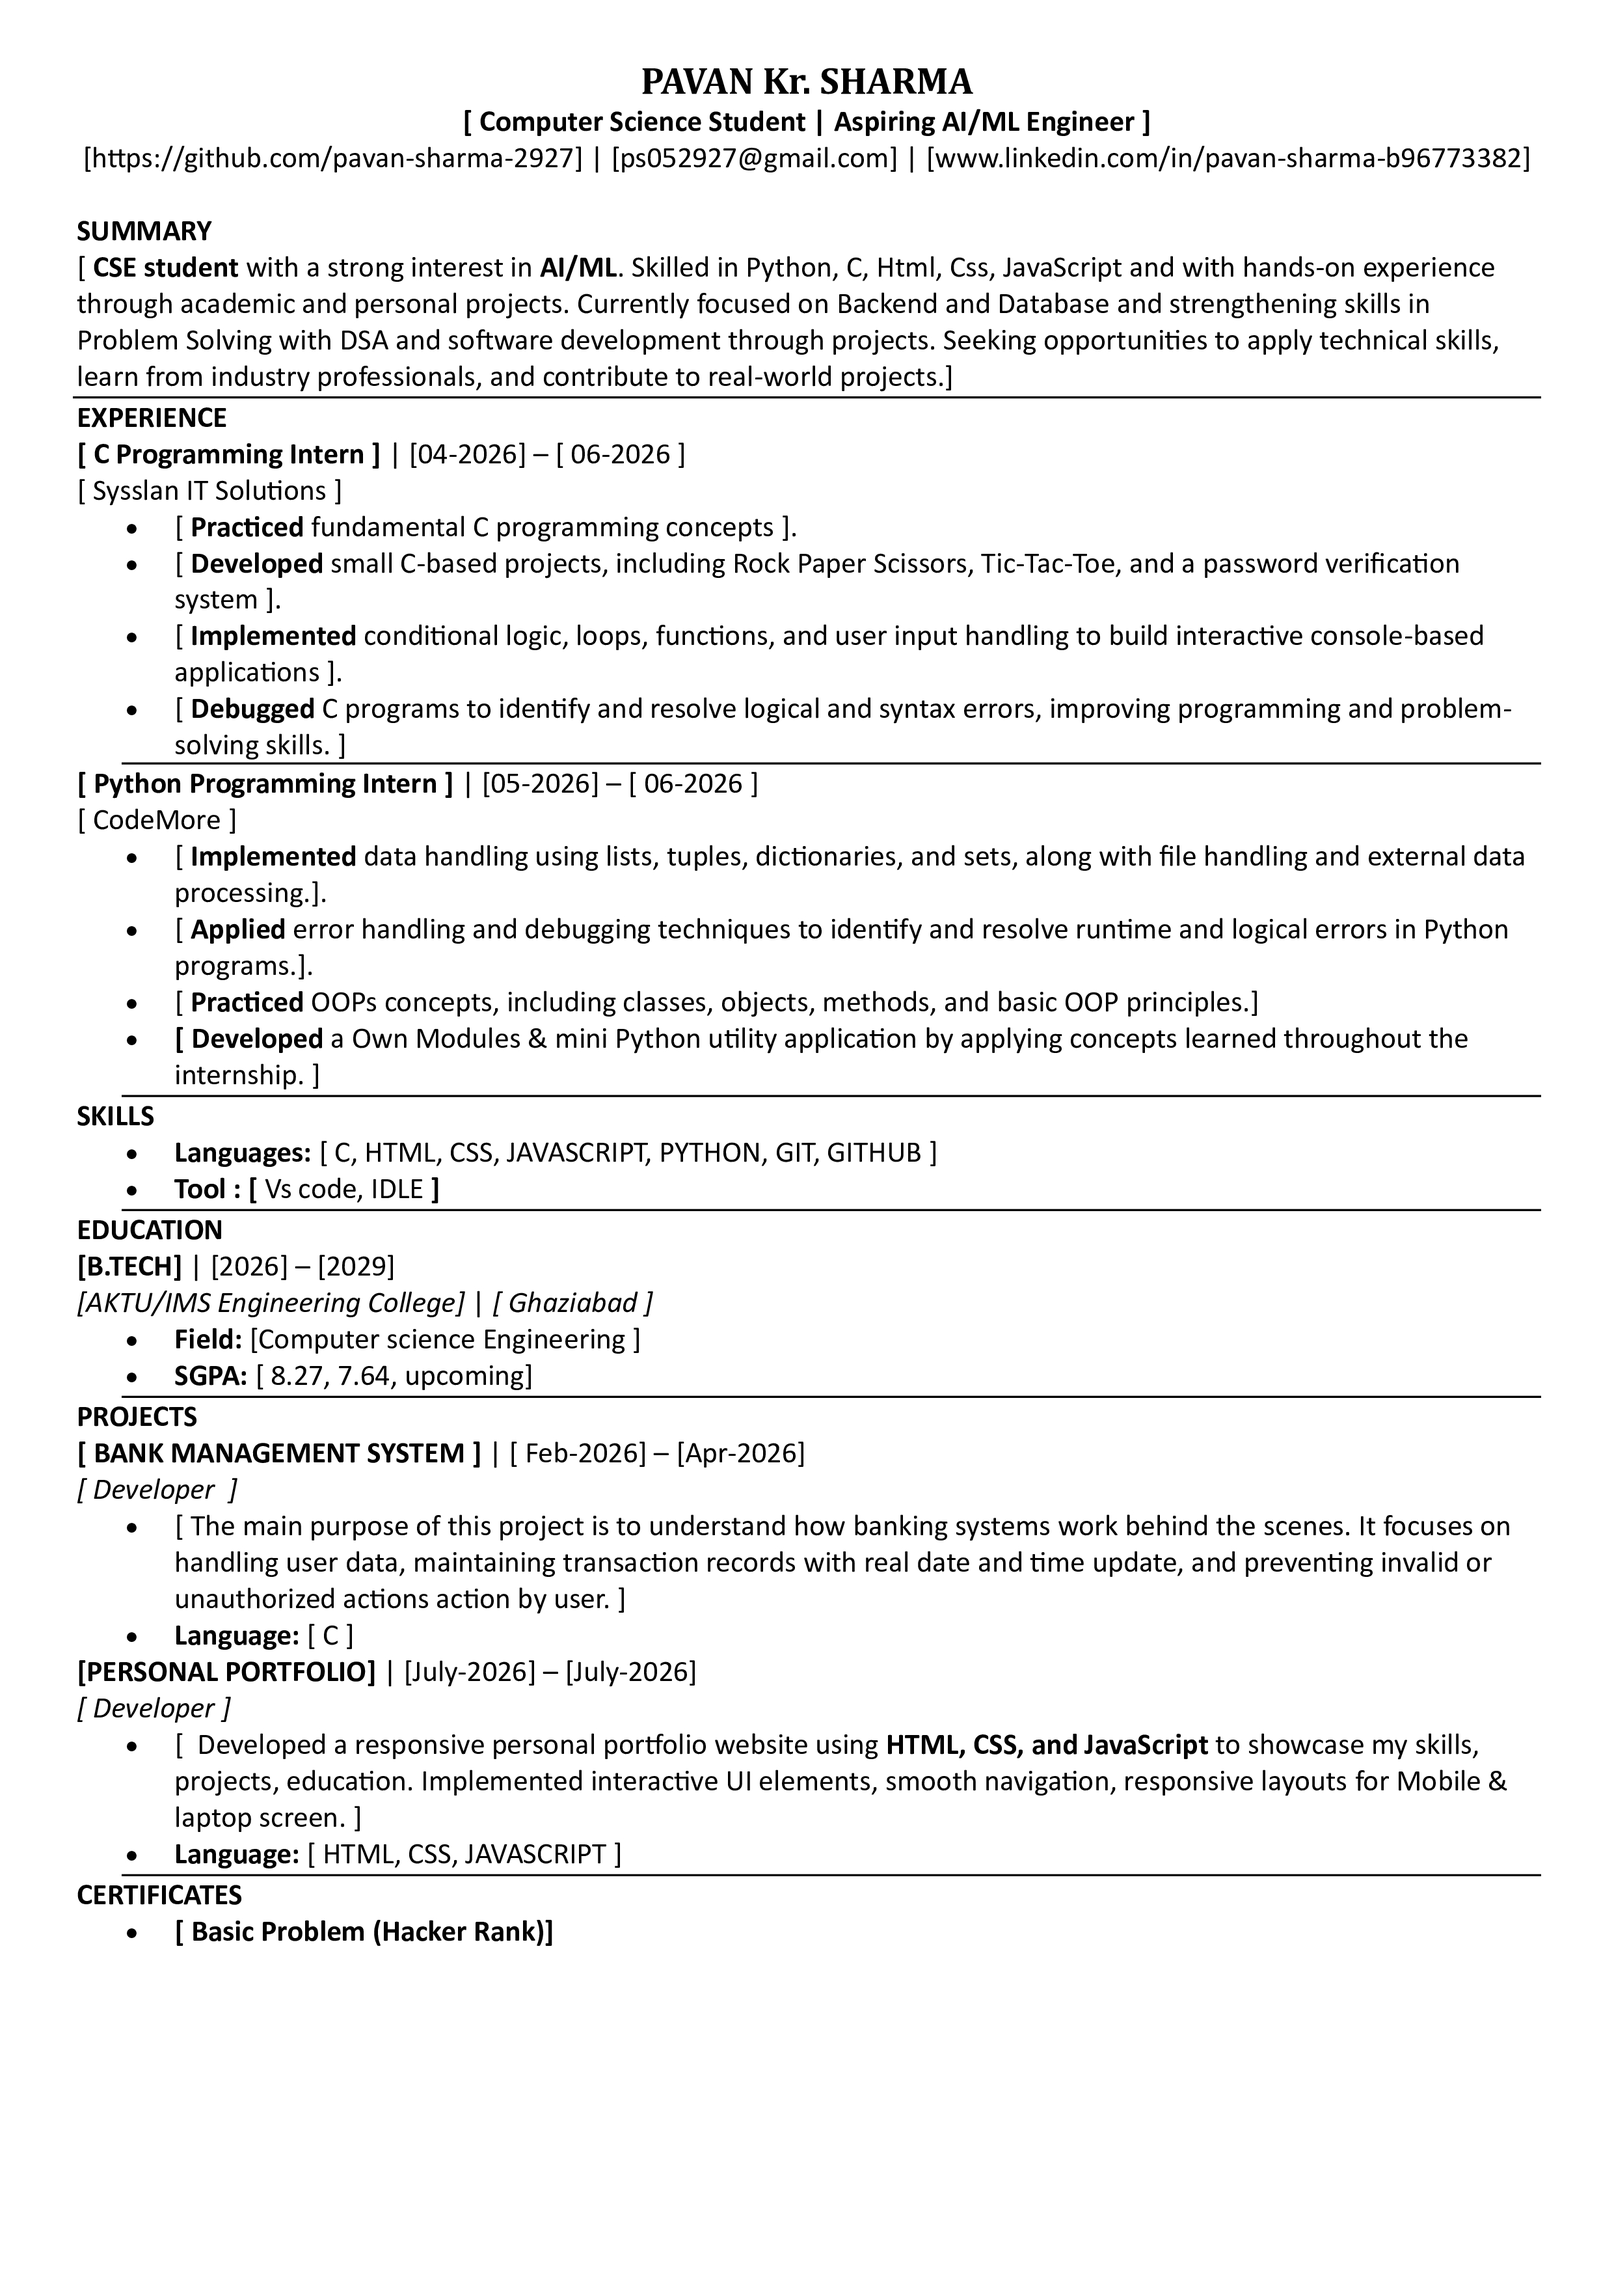
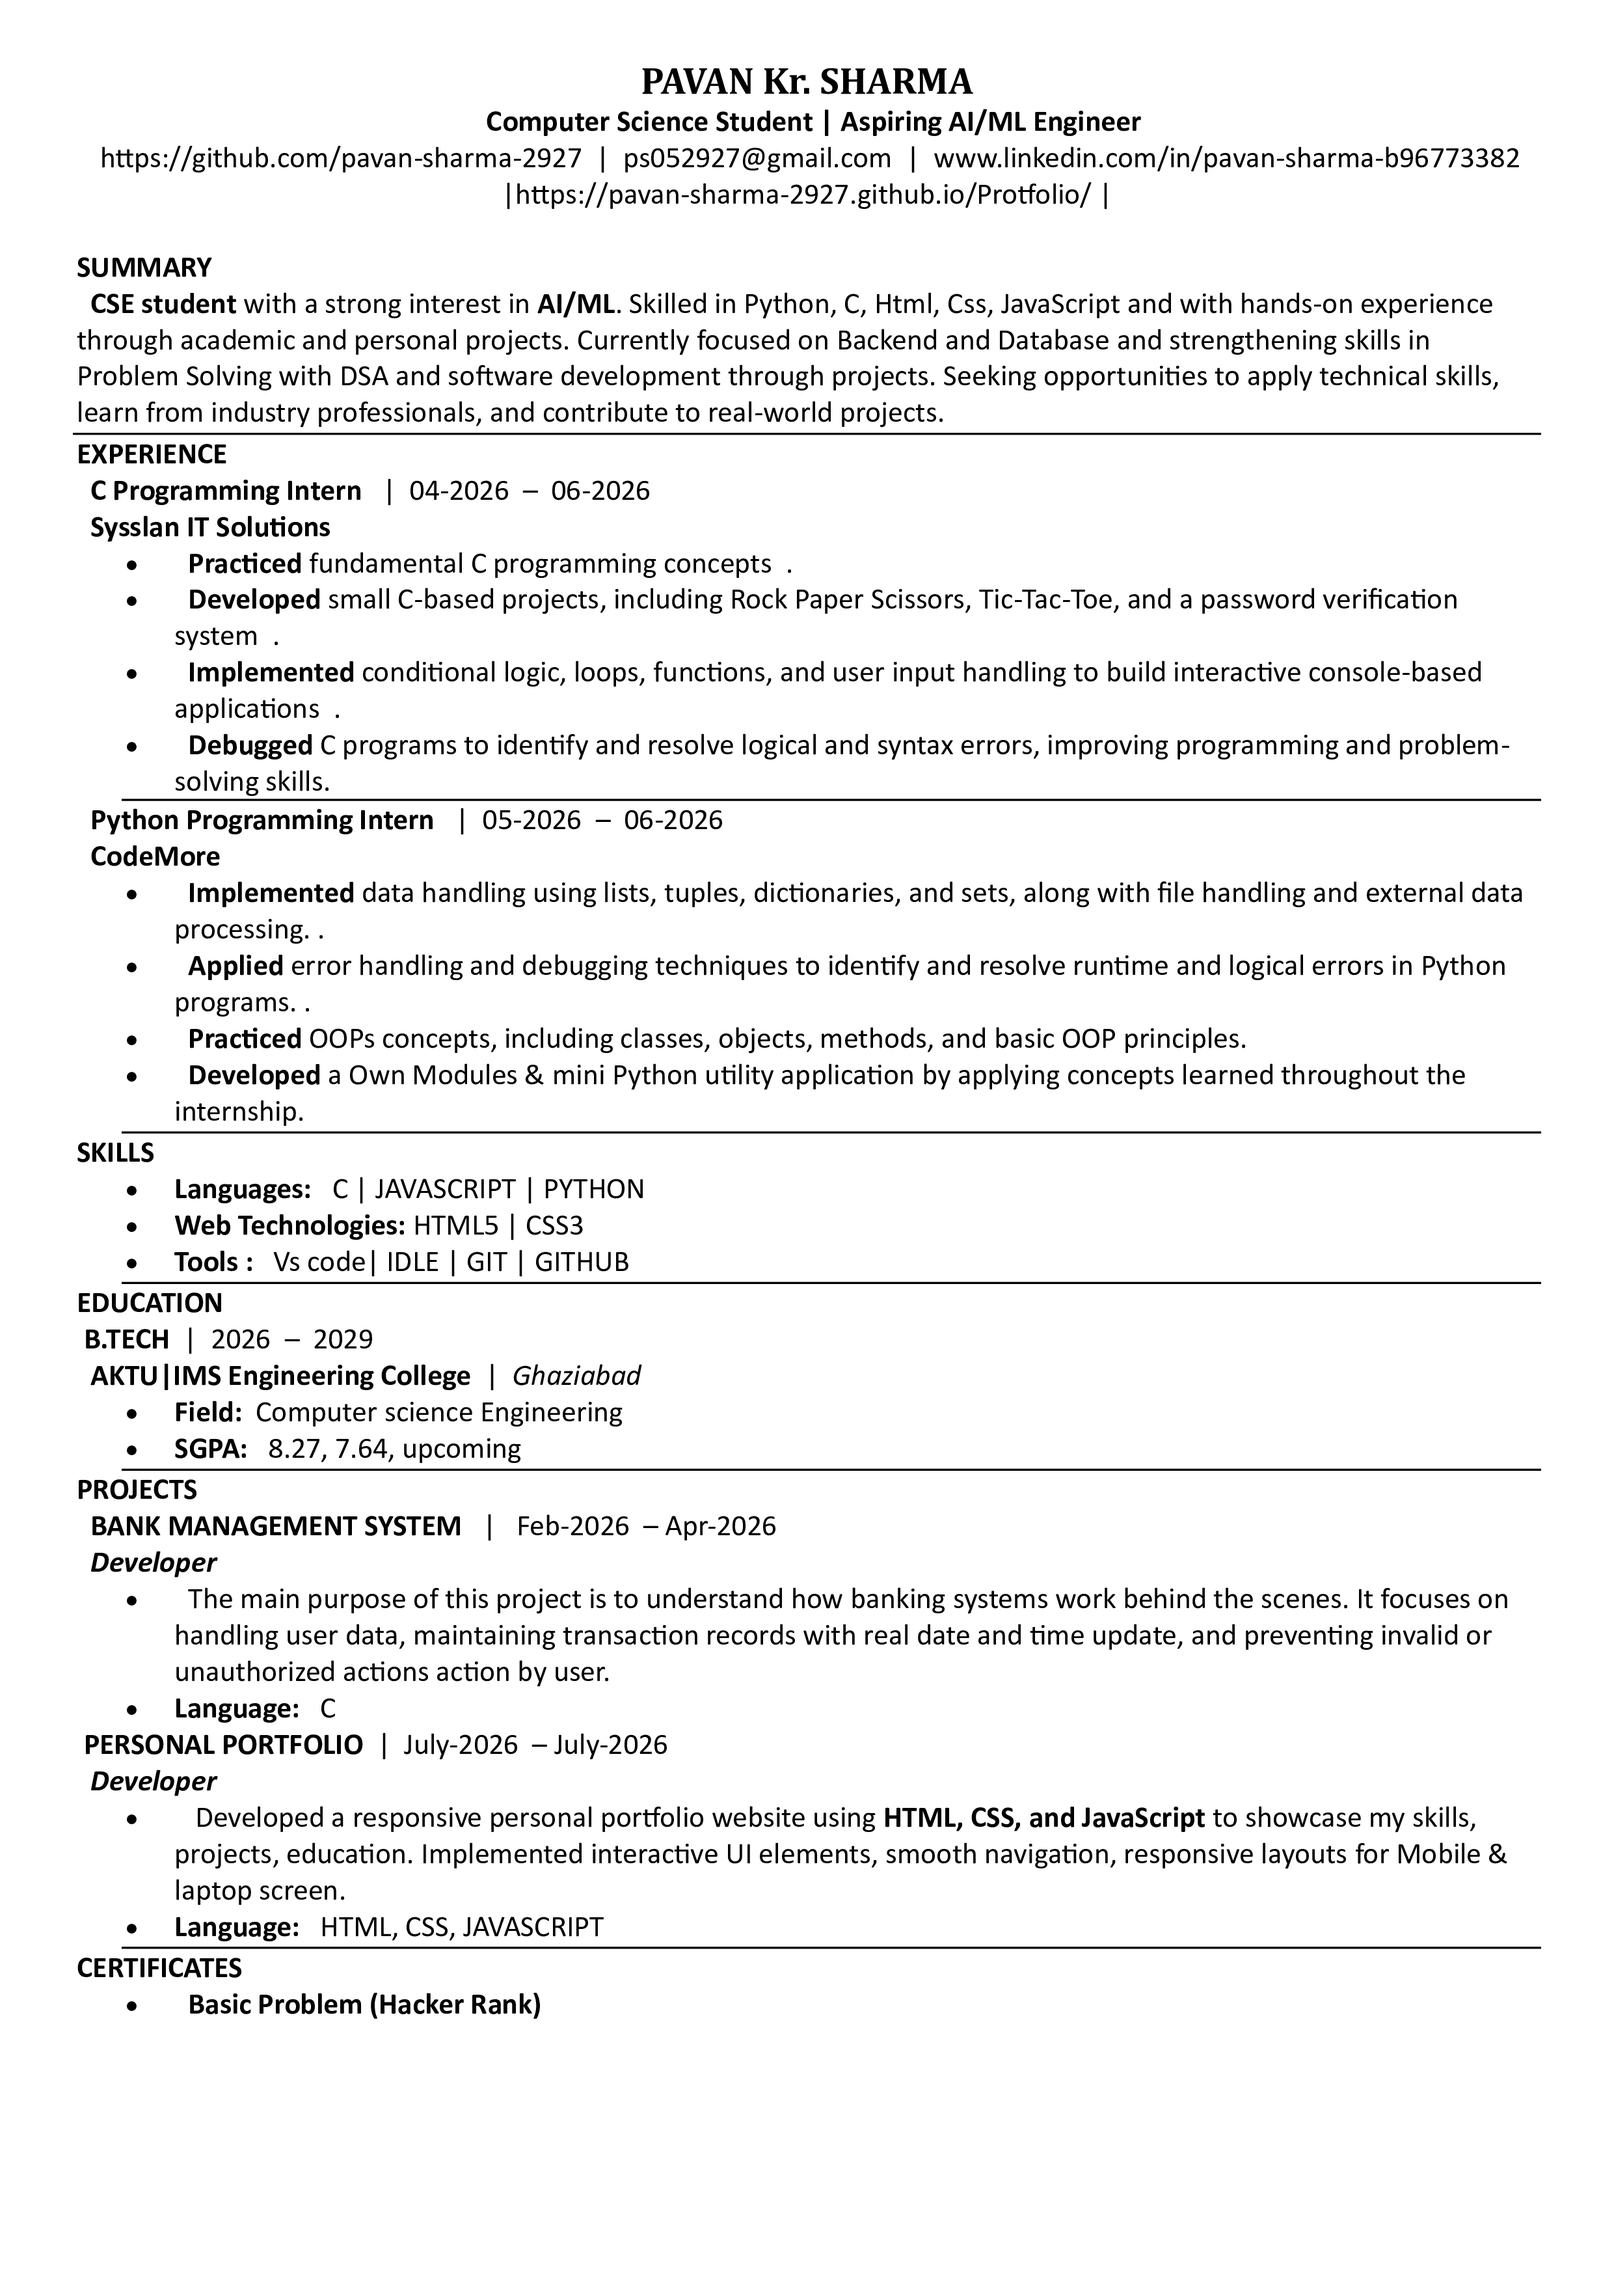
update cv

Changed region(s): [[0.031, 0.0311, 0.9311, 0.9011], [0.9, 0.0621, 0.9311, 0.0932]]

diff --git a/style.css b/style.css
@@ -662,11 +662,11 @@ footer{
     }
     .project{
         width: 90%;
-        height: 305px;
+        height: 310px;
     }
     .project:hover{
         width: 90%;
-        height: 305px;
+        height: 310px;
     }
 
     h3{
